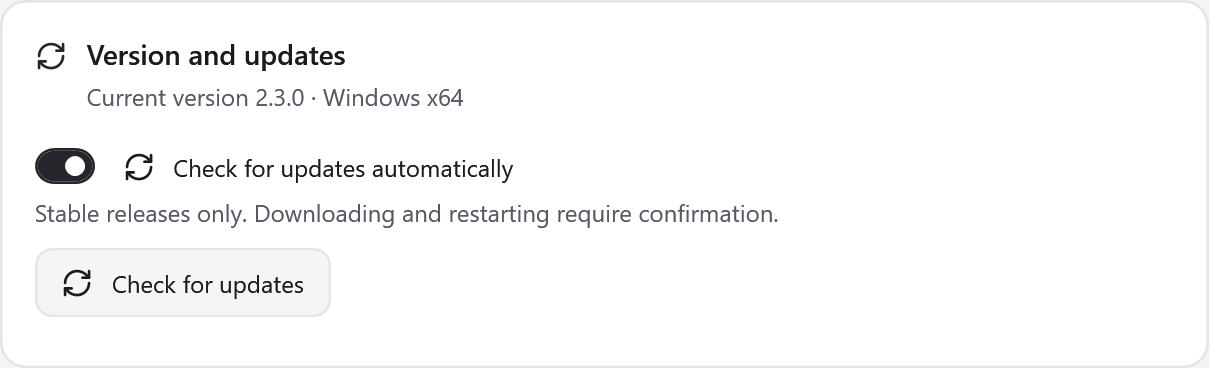
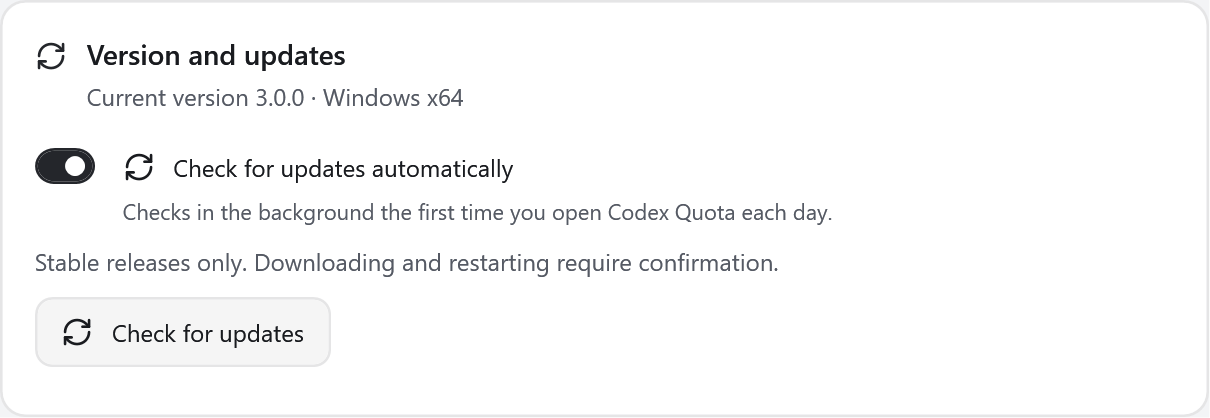
Release CodexQuota 3.0.0

diff --git a/Quota.Presentation.Tests/UpdateLifecycleSmoke.cs b/Quota.Presentation.Tests/UpdateLifecycleSmoke.cs
@@ -8,28 +8,37 @@ internal static class UpdateLifecycleSmoke
     public static async Task<int> Run(string[] args)
     {
         var directory = Path.GetFullPath(args[1]); var app = Path.GetFullPath(args[2]);
+        var options = args[3..].ToList();
+        var fromIndex = options.IndexOf("--from");
+        if (fromIndex >= 0 && fromIndex + 1 >= options.Count) throw new ArgumentException("--from requires the previous portable executable.");
+        var previous = fromIndex >= 0 ? Path.GetFullPath(options[fromIndex + 1]) : app;
+        if (fromIndex >= 0) options.RemoveRange(fromIndex, 2);
         if (Directory.Exists(directory)) throw new ArgumentException("Choose a fresh lifecycle fixture directory.");
         Directory.CreateDirectory(directory);
-        await Scenario(directory, app, "success", false, true);
-        await Scenario(directory, app, "rollback", true, false);
-        if (args.Length > 3) await Scenario(directory, app, "health-failure", false, false, Path.GetFullPath(args[3]));
+        await Scenario(directory, previous, app, "success", false, true);
+        await Scenario(directory, previous, app, "rollback", true, false);
+        if (options.Count > 0) await Scenario(directory, previous, app, "health-failure", false, false, Path.GetFullPath(options[0]));
         Console.WriteLine("PASS real executable handoff, original-directory replacement, healthy restart, independent recovery and failed-launch rollback");
         return 0;
     }
-    private static async Task Scenario(string directory, string app, string name, bool broken, bool recover, string? healthFailure = null)
+    private static async Task Scenario(string directory, string previous, string app, string name, bool broken, bool recover, string? healthFailure = null)
     {
         var root = Path.Combine(directory, name, "install"); var job = Path.Combine(directory, name, "job"); var profile = Path.Combine(directory, name, "profile");
         Directory.CreateDirectory(root); Directory.CreateDirectory(Path.Combine(job, "stage"));
-        var manifest = UpdateInstaller.Read<UpdatePayload>(Path.Combine(Path.GetDirectoryName(app)!, "install-files.json"));
-        foreach (var file in manifest.Files)
+        UpdatePayload CopyPayload(string executable, string destination)
         {
-            foreach (var targetRoot in new[] { root, Path.Combine(job, "stage") })
+            var source = Path.GetDirectoryName(executable)!;
+            var payload = UpdateInstaller.Read<UpdatePayload>(Path.Combine(source, "install-files.json"));
+            foreach (var file in payload.Files)
             {
-                var target = UpdateInstaller.FileAt(targetRoot, file); Directory.CreateDirectory(Path.GetDirectoryName(target)!);
-                File.Copy(UpdateInstaller.FileAt(Path.GetDirectoryName(app)!, file), target);
+                var target = UpdateInstaller.FileAt(destination, file); Directory.CreateDirectory(Path.GetDirectoryName(target)!);
+                File.Copy(UpdateInstaller.FileAt(source, file), target);
             }
+            return payload;
         }
-        File.Copy(app, Path.Combine(job, "Updater.exe"));
+        var previousManifest = CopyPayload(previous, root);
+        var manifest = CopyPayload(app, Path.Combine(job, "stage"));
+        File.Copy(previous, Path.Combine(job, "Updater.exe"));
         File.WriteAllText(Path.Combine(root, "README.md"), "old readme");
         File.WriteAllText(Path.Combine(root, "user-file.txt"), "keep this user file");
         File.WriteAllText(Path.Combine(job, "stage", "README.md"), "new readme");
@@ -41,7 +50,8 @@ internal static class UpdateLifecycleSmoke
         var parentNonce = Guid.NewGuid().ToString("N"); var nonce = Guid.NewGuid().ToString("N");
         using var parentHealth = new EventWaitHandle(false, EventResetMode.ManualReset, Event(parentNonce, "Health"));
         using var parentStop = new EventWaitHandle(false, EventResetMode.ManualReset, Event(parentNonce, "Stop"));
-        var start = new ProcessStartInfo(Path.Combine(root, "CodexQuota.exe")) { UseShellExecute = false };
+        var installedExe = Path.Combine(root, "CodexQuota.exe");
+        var start = new ProcessStartInfo(installedExe) { UseShellExecute = false };
         foreach (var arg in new[] { "--demo", "--data-dir", profile, "--update-health", parentNonce }) start.ArgumentList.Add(arg);
         var startup = Stopwatch.StartNew(); using var parent = Process.Start(start)!;
         Check(await Task.Run(() => parentHealth.WaitOne(TimeSpan.FromSeconds(25))), "fixture parent starts and renders");
@@ -59,6 +69,8 @@ internal static class UpdateLifecycleSmoke
         await helper.WaitForExitAsync().WaitAsync(TimeSpan.FromSeconds(45));
         var result = UpdateInstaller.Read<UpdateResult>(Path.Combine(job, "result.json"));
         Check(result.Status == (broken || healthFailure is not null ? "rolled-back" : "success"), "expected update result: " + result.Status + " " + result.Error);
+        var installedVersion = result.Status == "success" ? manifest.Version : previousManifest.Version;
+        Check(FileVersionInfo.GetVersionInfo(installedExe).ProductVersion == installedVersion, "installed executable matches the expected version");
         Check(File.ReadAllText(Path.Combine(root, "README.md")) == (broken || healthFailure is not null ? "old readme" : "new readme"), "payload content matches the outcome");
         Check(File.ReadAllText(Path.Combine(profile, "auth-sentinel.txt")) == "untouched account data" && store.LoadSettings().LowQuotaThreshold == 12.5, "account data and preferences survive");
         Check(File.ReadAllText(Path.Combine(root, "user-file.txt")) == "keep this user file", "unknown install files survive");
@@ -66,11 +78,12 @@ internal static class UpdateLifecycleSmoke
         await CloseFixture(root);
         if (recover)
         {
-            File.Delete(Path.Combine(root, "CodexQuota.exe"));
+            File.Delete(installedExe);
             var restore = new ProcessStartInfo(Path.Combine(job, "Updater.exe")) { UseShellExecute = false, CreateNoWindow = true };
             restore.ArgumentList.Add("--recover-update"); restore.ArgumentList.Add(planPath);
             using var recovery = Process.Start(restore)!; await recovery.WaitForExitAsync().WaitAsync(TimeSpan.FromSeconds(30));
             Check(recovery.ExitCode == 0 && File.ReadAllText(Path.Combine(root, "README.md")) == "old readme", "external recovery restores and restarts the previous payload");
+            Check(FileVersionInfo.GetVersionInfo(installedExe).ProductVersion == previousManifest.Version, "external recovery restores the previous executable version");
             await CloseFixture(root);
         }
         Console.WriteLine("PASS update lifecycle " + name + (recover ? " and external recovery" : ""));

diff --git a/Quota.Presentation.Tests/AppearanceSmoke.cs b/Quota.Presentation.Tests/AppearanceSmoke.cs
@@ -78,6 +78,16 @@ internal static class AppearanceSmoke
                 Check(menu.Background is SolidColorBrush { Color.A: 255 }, "popup menus retain a readable opaque surface over glass");
                 menu.IsOpen = false;
             }
+            if (GlassEnabled(dialog))
+            {
+                var frost = ((SolidColorBrush)dialog.FindResource("Background")).Color;
+                var blackBackdrop = new RgbColor((byte)Math.Round(frost.R * frost.A / 255d),
+                    (byte)Math.Round(frost.G * frost.A / 255d), (byte)Math.Round(frost.B * frost.A / 255d));
+                var ink = ((SolidColorBrush)dialog.FindResource("Muted")).Color;
+                Check(ContrastColors.Contrast(blackBackdrop, Rgb(ink)) >= 4.5,
+                    "light glass keeps secondary text legible even if its native backdrop renders black");
+                Console.WriteLine("PASS light glass secondary text against a black backdrop");
+            }
             settings.Material = "solid"; Method("ApplySettings").Invoke(main, null);
             var groups = (ObservableCollection<AccountGroupViewModel>)Field("visibleAccounts").GetValue(main)!;
             var strip = new TaskbarWidget(main, groups, null);

diff --git a/Quota.Desktop/ThemeService.cs b/Quota.Desktop/ThemeService.cs
@@ -40,7 +40,9 @@ internal static class ThemeService
         if (key == applied) return;
         applied = key; IsLight = light; GlassRequested = glass;
         AccentColor = light ? preset.LightAccent : preset.DarkAccent;
-        SecondaryColor = light ? preset.LightMuted : preset.DarkMuted;
+        // Light glass uses a neutral frost for every palette. Its secondary ink
+        // must also work if native blur presents a black backdrop.
+        SecondaryColor = glass && light ? "#4D525B" : light ? preset.LightMuted : preset.DarkMuted;
         var accent = Parse(AccentColor);
         var background = Parse(light ? preset.LightBackground : preset.DarkBackground);
         var surface = light ? Colors.White : Parse(preset.DarkSurface);

diff --git a/docs/updates.md b/docs/updates.md
@@ -4,7 +4,7 @@
 
 「设置 → 通用 → 版本与更新」可关闭自动检查，也可手动检查。每天首次打开时在后台检查，只接受固定 GitHub 仓库 `IcebearHound/CodexQuota` 的较新正式版。托盘后台启动也会检查，发现新版时等到应用窗口打开再提示。弹窗显示版本、更新摘要和下载大小；选择「更新并重启」后才开始下载，下载期间可取消。「跳过此版本」只关闭该版本的自动提示，之后仍可手动更新。
 
-2.2 及旧 Win+W 包没有自更新入口，需要先手动下载一次 2.3 完整便携版。2.3 已取消 Windows 内置小组件支持，后续更新不再进行 Appx/COM 扩展注册；已有开机启动项由重新启动的主程序刷新路径，保留 Windows 中的禁用状态。任务栏小组件继续支持。
+自更新从 2.3 完整便携版开始支持。2.2 及旧 Win+W 包没有自更新入口，应手动下载当前正式版的完整便携包。2.3 起不再支持 Windows 内置小组件，更新不再进行 Appx/COM 扩展注册；已有开机启动项由重新启动的主程序刷新路径，保留 Windows 中的禁用状态。任务栏小组件继续支持。
 
 ## 更新过程
 
@@ -34,9 +34,15 @@
 
 源码 ZIP 与截图不放入程序安装清单。未来若改变单文件分发格式或清单协议，需要明确安排兼容迁移，不能静默放宽客户端的文件白名单。
 
+发布前可用上一版的便携 EXE 做跨版本验收，测试只替换新建临时目录中的副本：
+
+```powershell
+dotnet run --project Quota.Presentation.Tests -c Release -- --update-lifecycle artifacts/upgrade-smoke 'C:/path/to/new/CodexQuota.exe' --from 'C:/path/to/old/CodexQuota.exe'
+```
+
 ## English
 
-Use **Settings → General → Version and updates** to turn off automatic checks or check manually. The app checks stable releases in the background the first time it opens each day. A tray-only launch can check for updates, but waits for an app window before showing the prompt. The prompt shows the version, a short changelog and the download size. **Update and restart** starts the download, which you can cancel. **Skip this version** suppresses future automatic prompts for that version; manual updates still work. Users of 2.2 and old Win+W packages must download 2.3 once before using in-app updates. Windows Widgets Board support and Appx/COM registration are retired; the ordinary taskbar widget remains supported. The restarted desktop app refreshes its existing startup path without re-enabling startup if Windows disabled it.
+Use **Settings → General → Version and updates** to turn off automatic checks or check manually. The app checks stable releases in the background the first time it opens each day. A tray-only launch can check for updates, but waits for an app window before showing the prompt. The prompt shows the version, a short changelog and the download size. **Update and restart** starts the download, which you can cancel. **Skip this version** suppresses future automatic prompts for that version; manual updates still work. In-app updates are supported from the complete 2.3 portable build onward. Users of 2.2 and older Win+W packages should download the current stable portable ZIP manually. Windows Widgets Board support and Appx/COM registration are retired; the ordinary taskbar widget remains supported. The restarted desktop app refreshes its existing startup path without re-enabling startup if Windows disabled it.
 
 Packages come only from the fixed GitHub repository, with HTTPS host checks, bounded streaming and the GitHub-provided SHA-256 digest. An exact installation manifest, safe archive paths and matching EXE version are required. Account data, settings and unknown files are never replaced. The app copies its current executable to an independent job directory as the updater, avoiding a second distributed runtime. It validates the installation before asking the app to quit, backs up owned files, replaces them atomically, and verifies the restarted UI. Failed startup rolls back and reopens the previous version. An active lease blocks accidental launches during installation; stale leases do not block startup.
 

diff --git a/README.en.md b/README.en.md
@@ -4,9 +4,9 @@
 
 Monitor Codex account quotas, reset timers and session issues from one Windows app. Connect accounts with **one-click CC Switch import** or **native Codex sign-in**.
 
-**[Download the 2.3 release](https://github.com/IcebearHound/CodexQuota/releases/tag/v2.3.0)** · [Quick start](#quick-start) · [Changelog](CHANGELOG.md)
+**[Download the 3.0 release](https://github.com/IcebearHound/CodexQuota/releases/tag/v3.0.0)** · [Quick start](#quick-start) · [Changelog](CHANGELOG.md)
 
-Screenshots use demo data and include UI updates from the current development branch. Use the link above for the stable release.
+Screenshots use demo data.
 
 | Compact widget (main window) | Taskbar widget and expanded panel |
 | --- | --- |
@@ -98,7 +98,7 @@ Enable **Start with Windows** in **Settings → General → Window behavior** to
 
 The first time you open Codex Quota each day, it checks for a stable release in the background. If one is available, the update panel shows what’s new and offers **Update and restart** or **Skip this version**. In **Settings → General → Version and updates**, you can turn off automatic checks or check manually. After verifying the GitHub-provided SHA-256 digest, the app restarts briefly, replaces files in its original folder and refreshes the existing startup path. Failed startup checks automatically restore the previous version.
 
-<img src="docs/images/updates-en.png" alt="2.3 version and update settings with automatic and manual checks" width="460">
+<img src="docs/images/updates-en.png" alt="Version and update settings with automatic and manual checks" width="460">
 
 Self-updating starts with the **complete 2.3 portable ZIP**. Users of 2.2 or old Win+W packages need to download this version once. See [update architecture and recovery](docs/updates.md#english).
 

diff --git a/README.md b/README.md
@@ -4,9 +4,9 @@
 
 在 Windows 上集中查看 Codex 的多账号额度、重置时间和异常会话。支持 **CC Switch 一键导入账号**和 **Codex 原生登录**。
 
-**[下载 2.3 正式版](https://github.com/IcebearHound/CodexQuota/releases/tag/v2.3.0)** · [快速开始](#快速开始) · [更新记录](CHANGELOG.md)
+**[下载 3.0 正式版](https://github.com/IcebearHound/CodexQuota/releases/tag/v3.0.0)** · [快速开始](#快速开始) · [更新记录](CHANGELOG.md)
 
-以下界面截图使用演示数据，包含当前开发分支的界面更新；正式版请以上方链接为准。
+以下界面截图使用演示数据。
 
 | 精简小组件（主面板） | 任务栏小组件与展开面板 |
 | --- | --- |
@@ -98,7 +98,7 @@
 
 每天首次打开时在后台检查正式版。发现新版本时，弹窗会显示版本和更新摘要，可选择「更新并重启」或「跳过此版本」。在「设置 → 通用 → 版本与更新」可关闭自动检查或手动检查。更新包通过 GitHub 提供的 SHA-256 校验后，应用短暂重启、原目录替换并刷新已有开机启动路径；新版本启动失败时自动回滚。
 
-<img src="docs/images/updates.png" alt="2.3 的版本与更新设置，提供自动检查与手动检查入口" width="460">
+<img src="docs/images/updates.png" alt="版本与更新设置，提供自动检查与手动检查入口" width="460">
 
 自更新从 **2.3 完整便携版**开始支持。2.2 及旧 Win+W 包用户需要先下载本版，之后可在应用内更新。[更新机制与恢复说明](docs/updates.md)。
 

diff --git a/CHANGELOG.md b/CHANGELOG.md
@@ -1,9 +1,9 @@
-# 未发布
+# 3.0.0
 
 - 每个本地日期首次打开时静默检查正式版。发现新版本时展示更新摘要，可确认下载并重启、跳过此版本，或在设置中关闭自动检查。
 - 任务栏的黄色状态灯改用亮黄；所有状态灯填充色不随任务栏背景改色，浅色背景下仅加轻微阴影。
 - 导览与「设置 → 额度监测」新增两个独立开关：本机输出速率（TPS）和额度下降速度。默认关闭，启用后在主面板、精简小组件和任务栏查看；任务栏空间不足时可展开查看。
-- 修复设置、导览、异常会话和任务栏展开面板首次显示时的玻璃材质初始化，打开后不需点击。玻璃使用中性雾面压低背景色彩。
+- 修复设置、导览、异常会话和任务栏展开面板首次显示时的玻璃材质初始化。浅色玻璃加厚中性雾面并加深辅助文字，底层变黑时也能读清。
 - 任务栏展开面板跟随任务栏的圆环／状态条模式。圆环卡片分别预留账号名、切换按钮、额度、重置时间和状态的位置；状态条模式使用单列账号列表。
 - 更新应用与托盘图标，统一设置、账户卡片、弹窗和控件样式。滚轮按渲染帧平滑移动，精确滚动输入和系统减少动画设置保留原有响应。
 - 精简主面板新增固定在顶部的实时状态灯，两种精简布局同步显示颜色、动画与悬停说明，支持打开异常会话列表。
